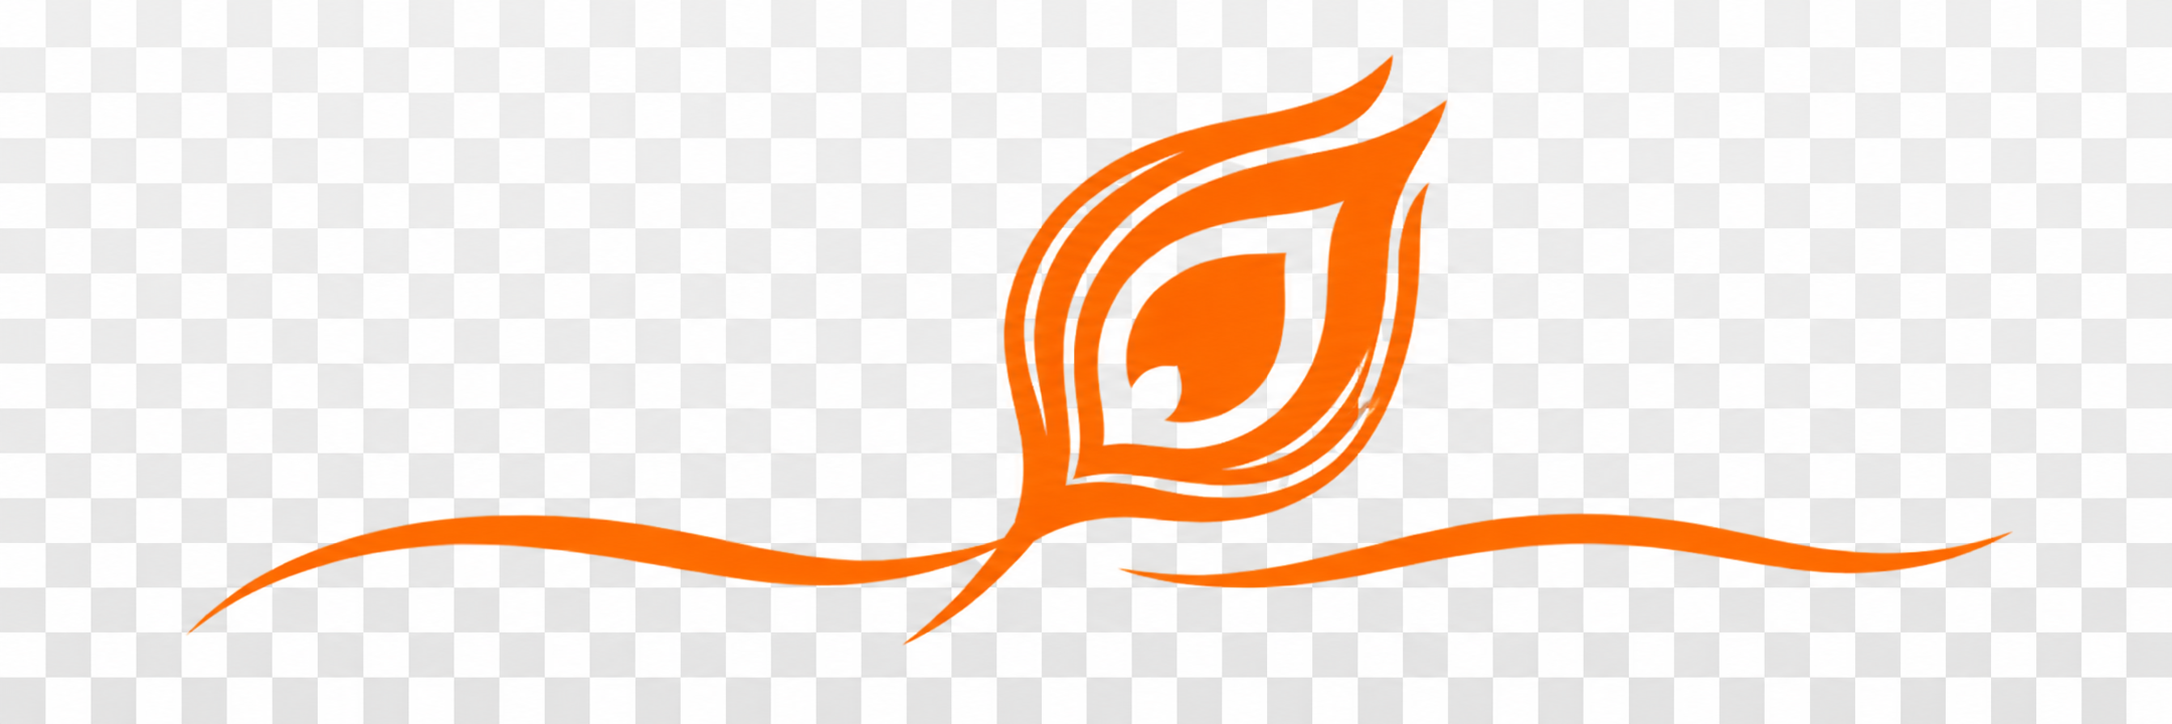
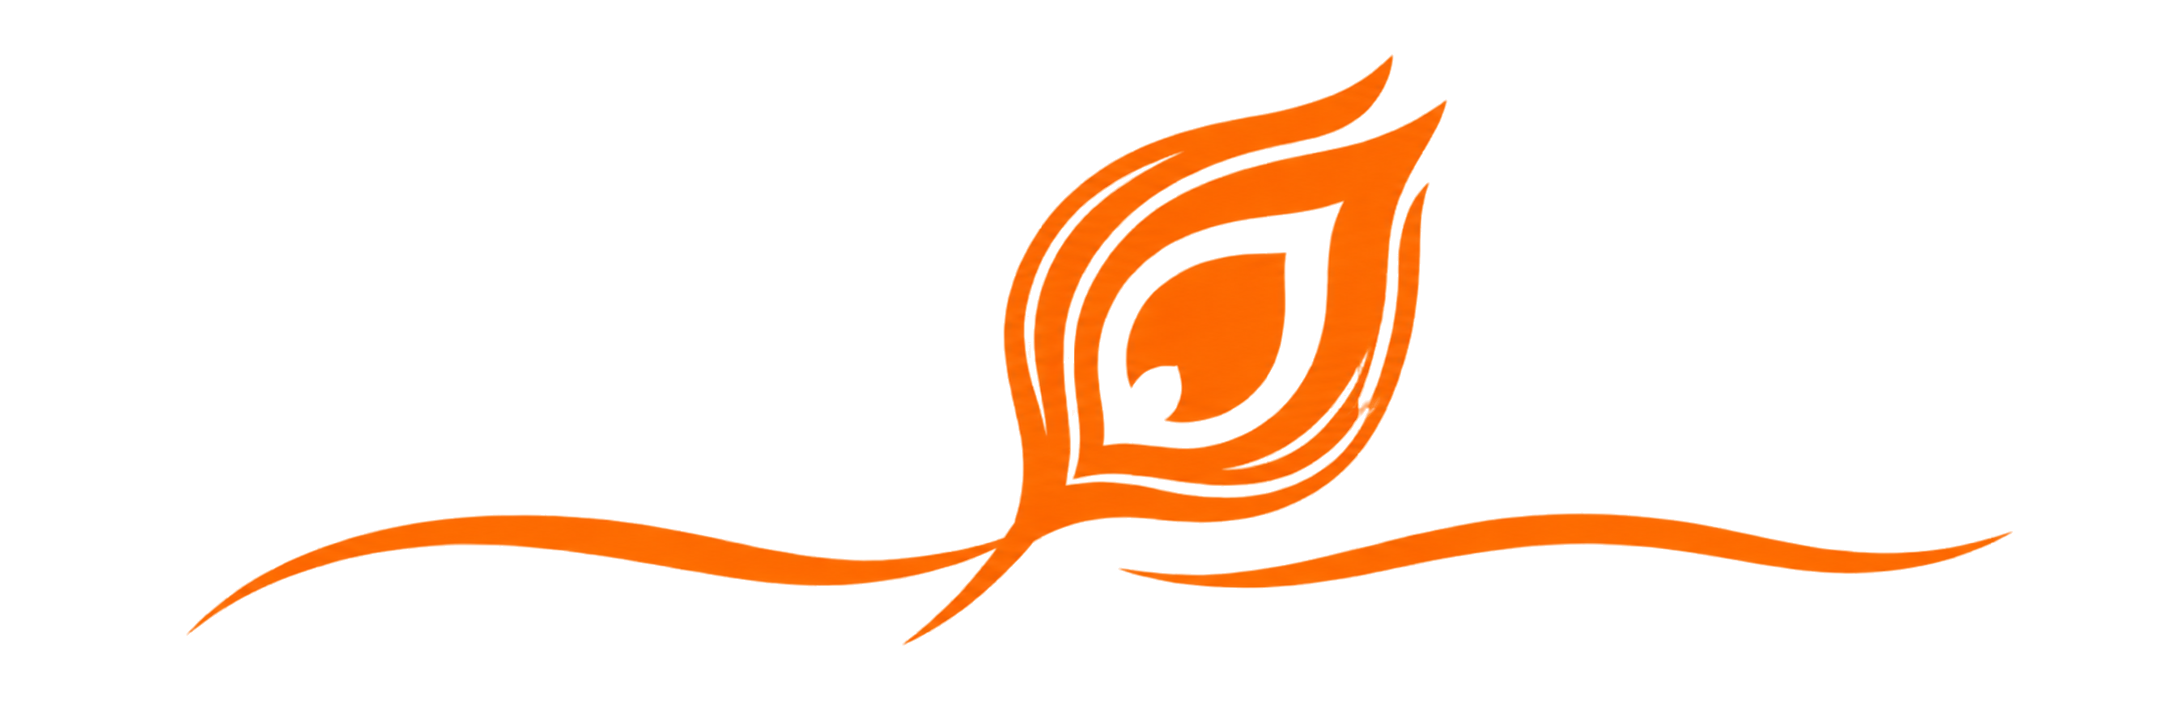
style(components): adjust BusinessSpotlight image sizing

Changed region(s): [[0.0, 0.6077, 1.0, 1.0], [0.6169, 0.547, 0.6478, 0.5773], [0.4936, 0.6381, 0.5244, 0.6685]]

diff --git a/src/components/common/BusinessSpotlightCarousel.tsx b/src/components/common/BusinessSpotlightCarousel.tsx
@@ -279,7 +279,7 @@ export const BusinessHeroCarousel: React.FC<BusinessHeroCarouselProps> = ({
                 alt=""
                 aria-hidden="true"
                 referrerPolicy="no-referrer"
-                className="w-24 sm:w-32 h-7 sm:h-9 object-contain object-left -ml-1 mix-blend-multiply brightness-[1.12] contrast-[1.35] pointer-events-none select-none"
+                className="w-28 sm:w-36 h-8 sm:h-10 object-contain object-left -ml-1 pointer-events-none select-none"
               />
               <div className="flex items-start gap-2 sm:gap-3">
                 <h2 className="font-sans font-extrabold leading-[1.03] tracking-tight">
